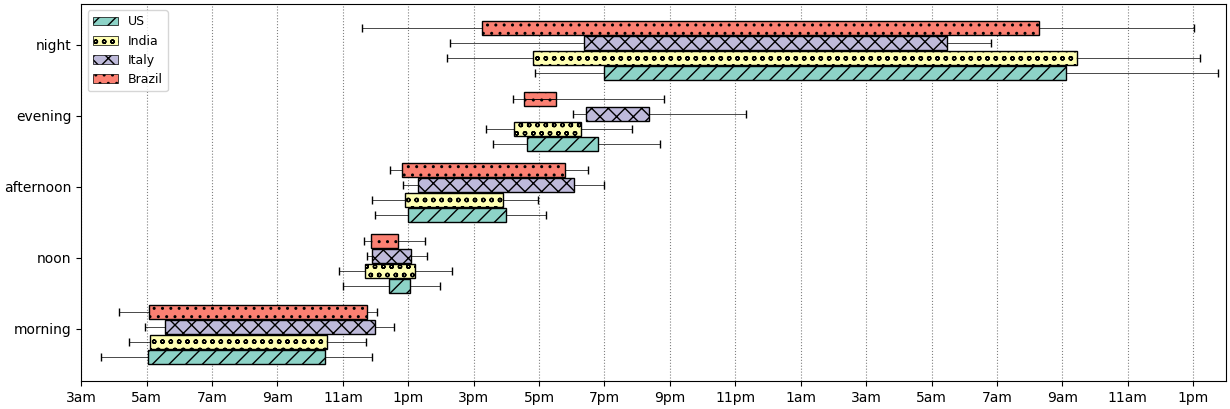
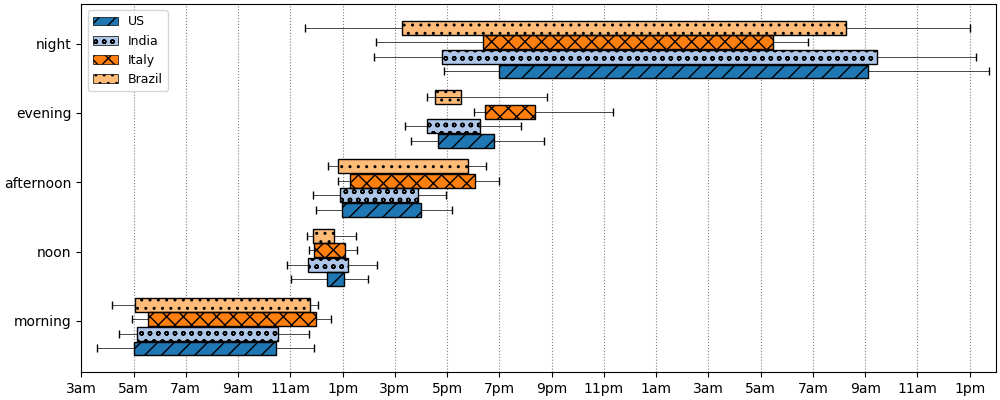
Eval

diff --git a/src/human/read_batch_results.py b/src/human/read_batch_results.py
@@ -1,8 +1,6 @@
 import os
 import json
 import logging
-import datetime
-import dateutil
 import argparse
 import numpy as np
 import pandas as pd
@@ -12,6 +10,8 @@ from matplotlib.cm import get_cmap
 from matplotlib.patches import Patch
 from collections import Counter, defaultdict
 from matplotlib.collections import PolyCollection
+
+from src.common.times import to_24hr
 
 pd.set_option('max_columns', None)
 logging.basicConfig(format='%(asctime)s - %(levelname)s - %(name)s - %(message)s', level=logging.INFO)
@@ -40,85 +40,12 @@ def main():
 
     logger.info(f"Number of annotations: "
                 f"{dict([(country, sum(gold[country]['morning']['start'].values())) for country in gold.keys()])}")
-    fig, ax = plt.subplots(figsize=(12.3, 4.1), constrained_layout=True)
+    fig, ax = plt.subplots(figsize=(10, 4), constrained_layout=True)
     ax.set_axisbelow(True)
     ax.xaxis.grid(color='gray', linestyle='dotted')
     plot_by_exp(ax, gold)
     fig.savefig(f"output/plots/gold_standard.png")
     plt.show()
-
-
-# def plot_by_exp(ax, distribution):
-#     """
-#     Plot the distribution of times
-#     """
-#     expressions = ["morning", "noon", "afternoon", "evening", "night"]
-#     countries = list(distribution.keys())
-#
-#     dist = {country:
-#         {exp: {f"{edge}_{stat}": to_24hr(distribution[country][exp][f"{edge}_{stat}"])
-#                   for edge in ["start", "end"] for stat in ["mean", "std"]}
-#             for exp in expressions}
-#             for country in countries}
-#
-#     for country in countries:
-#         for edge in ["start", "end"]:
-#             d = dist[country]["night"][f"{edge}_mean"]
-#             dist[country]["night"][f"{edge}_mean"] = d + 24 if d < 12 else d
-#
-#     width = .1
-#     verts = {country: [[
-#         (width * 2.1 * ctr_idx + exp_idx - width, dist[country][exp]["start_mean"]),
-#         (width * 2.1 * ctr_idx + exp_idx + width, dist[country][exp]["start_mean"]),
-#         (width * 2.1 * ctr_idx + exp_idx + width, dist[country][exp]["end_mean"]),
-#         (width * 2.1 * ctr_idx + exp_idx - width, dist[country][exp]["end_mean"]),
-#         (width * 2.1 * ctr_idx + exp_idx - width, dist[country][exp]["start_mean"])]
-#         for exp_idx, exp in enumerate(expressions)]
-#         for ctr_idx, country in enumerate(countries)}
-#
-#     hatches = ['//', '\\\\', '||', '--', '++', 'xx', 'oo', 'OO', '..', '**']
-#     hatches = {country: hatch for country, hatch in zip(countries, hatches)}
-#     colors = {country: color for country, color in zip(countries, get_cmap("Set3").colors)}
-#
-#     for country, curr_verts in verts.items():
-#         bars = PolyCollection(curr_verts, facecolors=colors[country], label=country)
-#         ax.add_collection(bars)
-#
-#         # Add hatches
-#         for vert in curr_verts:
-#             ax.add_patch(plt.Polygon(vert, closed=True, fill=False, hatch=hatches[country]))
-#
-#         # Draw error bars
-#         for exp_idx, exp in enumerate(expressions):
-#             y_start = curr_verts[exp_idx][0][1]
-#             y_end = curr_verts[exp_idx][2][1]
-#             x = (curr_verts[exp_idx][0][0] + curr_verts[exp_idx][1][0]) / 2.0
-#             start_std, end_std = dist[country][exp]["start_std"], dist[country][exp]["end_std"]
-#             ax.plot([x, x], [y_start - start_std / 2, y_start], color="black", linestyle="solid", linewidth=.5)
-#             ax.plot(x, y_start - start_std / 2, color="black", marker="_")
-#             ax.plot([x, x], [y_end, y_end + end_std / 2], color="black", linestyle="solid", linewidth=.5)
-#             ax.plot(x, y_end + end_std / 2, color="black", marker="_")
-#
-#     ax.autoscale()
-#
-#     # Set the times
-#     times = range(1, 38)
-#     ax.set_yticks(times)
-#     num_to_time = {12: "12 pm", 24: "12 am"}
-#     num_to_time.update({i: f"{i} am" for i in range(1, 12)})
-#     num_to_time.update({i: f"{i - 12} pm" for i in range(13, 24)})
-#     num_to_time.update({i: f"{i - 24} am" for i in range(25, 36)})
-#     num_to_time.update({i: f"{i - 24} pm" for i in range(36, 48)})
-#     ax.set_yticklabels([num_to_time[num] for num in ax.get_yticks()], fontsize=10)
-#
-#     ax.set_xticks([i + len(countries) * width for i in range(len(expressions))])
-#     ax.set_xticklabels(expressions, fontsize=10)
-#
-#     # Create the legend
-#     legend_items = [Patch(
-#         facecolor=colors[country], hatch=hatches[country], edgecolor="black",
-#         label=country, ls="solid", lw=.5) for country in countries]
-#     plt.legend(handles=legend_items, loc='upper left', fontsize=9, ncol=4)
 
 
 def plot_by_exp(ax, distribution):
@@ -151,7 +78,7 @@ def plot_by_exp(ax, distribution):
 
     hatches = ['//', 'oo', 'xx', '..', '\\\\', '||', '--', '++', 'OO', '**']
     hatches = {country: hatch for country, hatch in zip(countries, hatches)}
-    colors = {country: color for country, color in zip(countries, get_cmap("Set3").colors)}
+    colors = {country: color for country, color in zip(countries, get_cmap("tab20").colors)}
 
     for country, curr_verts in verts.items():
         bars = PolyCollection(curr_verts, facecolors=colors[country], label=country)
@@ -193,15 +120,6 @@ def plot_by_exp(ax, distribution):
         facecolor=colors[country], hatch=hatches[country], edgecolor="black",
         label=country, ls="solid", lw=.5) for country in countries]
     plt.legend(handles=legend_items, loc='upper left', fontsize=9, ncol=1)
-
-
-def to_24hr(t):
-    """
-    Convert time to a float
-    """
-    today = str(datetime.date.today())
-    t = dateutil.parser.parse(" ".join((today, t.replace(".", ""))))
-    return t.hour + t.minute/60.0
 
 
 def correct_am_pm(curr_data, exp, edge):

diff --git a/src/eval.py b/src/eval.py
@@ -1,38 +1,91 @@
-import os
 import json
+import datetime
 import numpy as np
+
+from dateutil import parser
+
+from src.common.times import to_24hr
+
+expressions = ["morning", "noon", "afternoon", "evening", "night"]
+exp2id = {exp: i for i, exp in enumerate(expressions)}
 
 
 def main():
-    print("\t".join(("Language", "Model", "Precision", "Start Diff", "End Diff")))
+    # Load the dataset
+    gold_standard = [json.loads(line) for line in open("data/dataset.jsonl")]
+    gold_standard = {ex["country"]: ex for ex in gold_standard}
+
+    print("\t".join(("Language", "Model", "Accuracy", "Start Diff", "End Diff")))
 
     # Iterate over languages
-    for file in os.listdir("data/templates"):
-        lang = file.replace(".txt", "")
+    for lang, country in [("en", "US"), ("hi", "India"), ("it", "Italy"), ("pt", "Brazil")]:
 
-        # TODO: get gold standard start and end times
-        gold_standard = {exp: (None, None) for exp in []}
+        curr_gold = gold_standard[country]["main"]
+
+        # Get gold standard start and end times
+        gold = {exp: (curr_gold[exp]["start_mean"], curr_gold[exp]["end_mean"]) for exp in expressions}
+
+        # Compute the gold label of each minute in the day
+        minutes_gold = assign_minutes(gold, exp2id)
 
         for model in ["extractive", "lm_based"]:
-            with open(f"output/{model}/{lang}_24.json") as f_in:
-                dist = json.load(f_in)
+            for mode in ["24", "start_end"]:
+                import os
+                if not os.path.exists(f"output/{model}/{lang}_{mode}.json"):
+                    continue
 
-            pred_start_end = {exp: (dist[exp]["start"], dist[exp]["end"]) for exp in dist.keys()}
-            dist = {exp: {int(h): score for h, score in per_exp.items() if h not in {"start", "end"}}
-                   for exp, per_exp in dist.items()}
+                with open(f"output/{model}/{lang}_{mode}.json") as f_in:
+                    dist = json.load(f_in)
 
-            precision = compute_precision(dist, gold_standard)
-            diff_start = np.mean([abs(val[0] - gold_standard[exp][0]) for exp, val in pred_start_end.items()])
-            diff_end = np.mean([abs(val[1] - gold_standard[exp][1]) for exp, val in pred_start_end.items()])
+                # Get the start and end times
+                if mode == "24":
+                    start_end = {exp: (dist[exp]["start"], dist[exp]["end"]) for exp in dist.keys()}
+                else:
+                    start_end = {exp: (
+                        int(list(sorted(dist["start"][exp].items(), key=lambda x: x[1], reverse=True))[0][0]),
+                        int(list(sorted(dist["end"][exp].items(), key=lambda x: x[1], reverse=True))[0][0]))
+                        for exp in dist["start"].keys()}
 
-            print("\t".join((lang, model, f"{precision*100:.2}", f"{diff_start:.2}", f"{diff_end:.2}")))
+                preds = {exp: (f"{int(s)}:{int((s - int(s)) * 60):02d}", f"{int(e)}:{int((e - int(e)) * 60):02d}")
+                         for exp, (s, e) in start_end.items()}
+
+                minutes_pred = assign_minutes(preds, exp2id)
+
+                accuracy = np.mean([minutes_pred[i] == minutes_gold[i] for i in range(1444) if minutes_gold[i] is not None])
+                diff_start = np.mean([abs(s - to_24hr(curr_gold[exp]["start_mean"])) for exp, (s, e) in start_end.items()])
+                diff_end = np.mean([abs(e - to_24hr(curr_gold[exp]["end_mean"])) for exp, (s, e) in start_end.items()])
+
+                print("\t".join((lang, f"{model}-{'dist' if mode == '24' else 'se'}",
+                                 f"{accuracy*100:.2f}", f"{diff_start:.2f}", f"{diff_end:.2f}")))
 
 
-def compute_precision(dist, gold_standard):
+def assign_minutes(dist, exp2id):
     """
-    Compute how many data points fit within the gold standard start and end
+    Assign each minute of the day to a time expression.
+    :param gold: a dictionary of expression: (start, end) times.
+    :return: an array of size 1440 assigning each minute to the ID of its expression.
     """
-    return 0
+    assignment = [None] * 1444
+    today = str(datetime.date.today())
+    dist = {exp: (s if s != "24:00" else "00:00", e if e != "24:00" else "00:00") for exp, (s, e) in dist.items()}
+    start_end_dates = {exp: (parser.parse(" ".join((today, s))), parser.parse(" ".join((today, e))))
+                       for exp, (s, e) in dist.items()}
+
+    # The night end date should be tomorrow
+    for exp, (start, end) in start_end_dates.items():
+        if end.hour < start.hour:
+            start_end_dates[exp] = (start, end + datetime.timedelta(days=1))
+
+    start_date = parser.parse(" ".join((today, "12:00")))
+
+    for minute in range(1044):
+        curr = start_date + datetime.timedelta(minutes=minute)
+        for exp, (start, end) in start_end_dates.items():
+            if start <= curr <= end:
+                assignment[minute] = exp2id[exp]
+                break
+
+    return assignment
 
 
 if __name__ == '__main__':

diff --git a/src/common/times.py b/src/common/times.py
@@ -1,0 +1,11 @@
+import datetime
+import dateutil
+
+
+def to_24hr(t):
+    """
+    Convert time to a float
+    """
+    today = str(datetime.date.today())
+    t = dateutil.parser.parse(" ".join((today, t.replace(".", ""))))
+    return t.hour + t.minute/60.0
